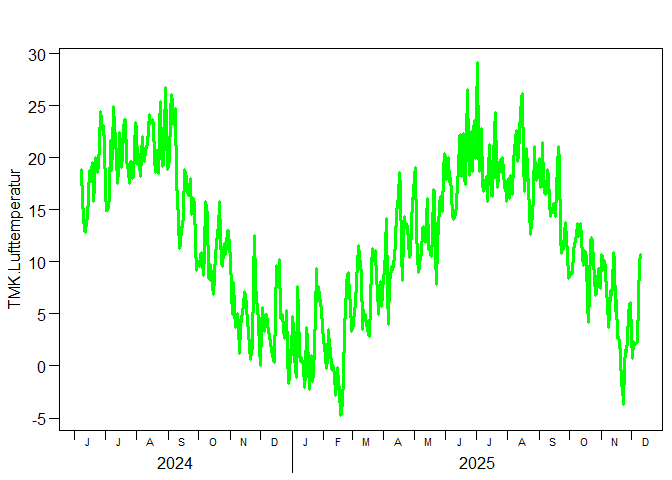
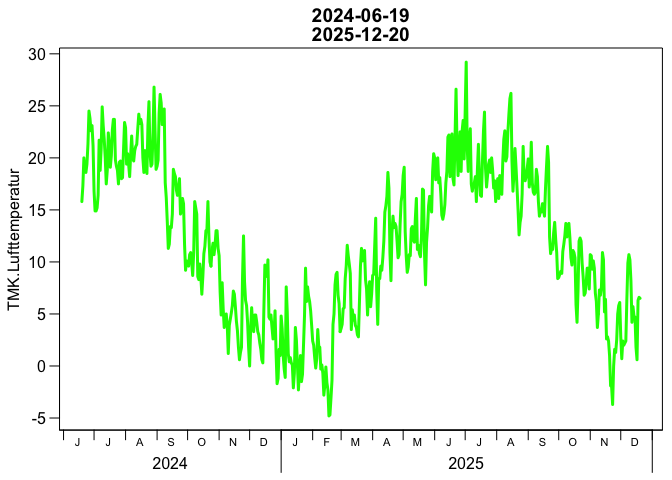
link updated

diff --git a/README.md b/README.md
@@ -1,6 +1,6 @@
 # Fundamentals of Programming 2025
 Berry Boessenkool;
-2025-12-10, 13:17
+2025-12-21, 11:57
 
 This is a github task in the course
 [FP25](https://open.hpi.de/courses/hpi-dh-fprog2025).
@@ -38,8 +38,7 @@ rdwd::updateRdwd()
 
 ## Get weather data
 
-download recent weather data using
-[rdwd](https://bookdown.org/brry/rdwd/)
+download recent weather data using [rdwd](https://brry.github.io/rdwd/)
 
 ``` r
 library(rdwd)
@@ -50,7 +49,7 @@ clim <- dataDWD(link, varnames=TRUE, force=24, removeftp=TRUE)
 ## Visualise recent temperature
 
 ``` r
-plotDWD(clim, "TMK.Lufttemperatur", col="green")
+plotDWD(clim, "TMK.Lufttemperatur", main=range(clim$MESS_DATUM), col="green")
 ```
 
 ![](README_files/figure-commonmark/plot_clim-1.png)
@@ -90,12 +89,12 @@ print('goodbye')
 
     === Summary Statistics for Temperature ===
     count    550.000000
-    mean      12.113636
-    std        7.305647
+    mean      11.900364
+    std        7.343116
     min       -4.800000
-    25%        6.125000
-    50%       12.150000
-    75%       18.300000
+    25%        5.800000
+    50%       11.650000
+    75%       18.200000
     max       29.200000
     Name: TMK.Lufttemperatur, dtype: float64
 
